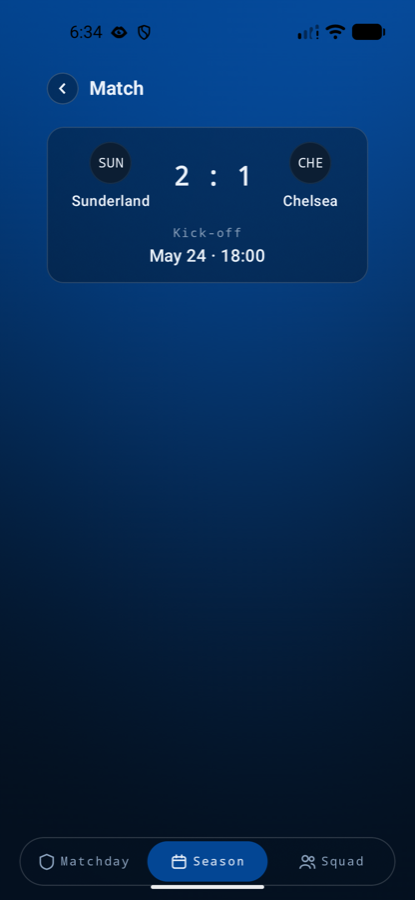
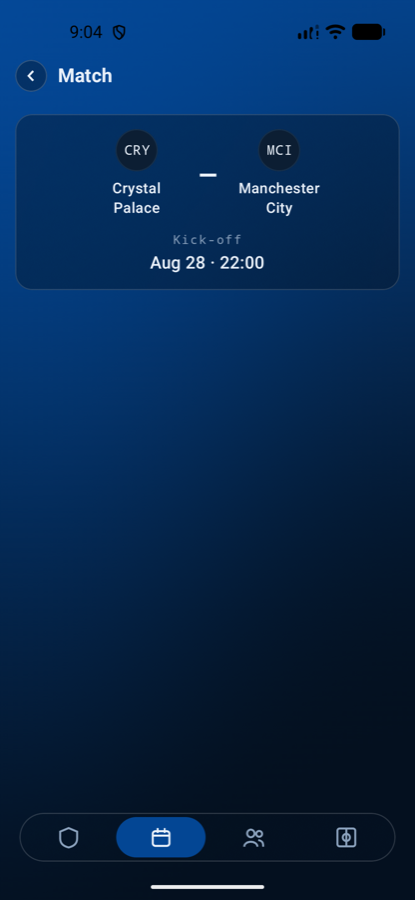
fix(matches): stop applying the window insets twice on the match screen
The screen used safeContentPadding and then added LocalScreenPadding on top,
and both carry the same insets — so the top bar sat roughly a status bar too
low and the card lost a gutter's worth of width on each side. Only this
screen still did it; the rest already moved to the composition local.

The fixture card now spans the screen with the same side gutter as every
other card in the app, named rather than repeated.

diff --git a/feature/matches/impl/src/commonMain/kotlin/com/begoml/bridge/feature/matches/detail/MatchDetailScreen.kt b/feature/matches/impl/src/commonMain/kotlin/com/begoml/bridge/feature/matches/detail/MatchDetailScreen.kt
@@ -9,7 +9,6 @@ import androidx.compose.foundation.layout.Row
 import androidx.compose.foundation.layout.fillMaxSize
 import androidx.compose.foundation.layout.fillMaxWidth
 import androidx.compose.foundation.layout.padding
-import androidx.compose.foundation.layout.safeContentPadding
 import androidx.compose.foundation.layout.width
 import androidx.compose.material3.MaterialTheme
 import androidx.compose.material3.Text
@@ -43,6 +42,9 @@ import com.begoml.bridge.uikit.theme.FigureStyle
 import com.begoml.bridge.uikit.theme.LabelStyle
 import org.jetbrains.compose.resources.stringResource
 
+/** The side gutter every screen shares, so cards line up across the app. */
+private val ScreenGutter = 14.dp
+
 @Composable
 fun MatchDetailScreen(
     matchId: String,
@@ -60,7 +62,7 @@ fun MatchDetailScreen(
     ) {
         val glass = this
         Column(
-            modifier = Modifier.fillMaxSize().safeContentPadding().padding(contentPadding),
+            modifier = Modifier.fillMaxSize().padding(contentPadding),
             verticalArrangement = Arrangement.spacedBy(14.dp),
         ) {
             BridgeTopBar(
@@ -93,7 +95,7 @@ fun MatchDetailScreen(
 
 @Composable
 private fun GlassScope.FixtureCard(match: SeasonMatch) {
-    GlassPanel(modifier = Modifier.fillMaxWidth().padding(horizontal = 14.dp)) {
+    GlassPanel(modifier = Modifier.fillMaxWidth().padding(horizontal = ScreenGutter)) {
         Column(
             verticalArrangement = Arrangement.spacedBy(14.dp),
             horizontalAlignment = Alignment.CenterHorizontally,
